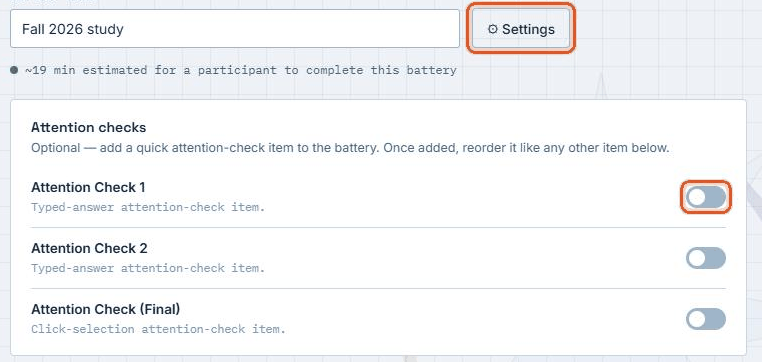
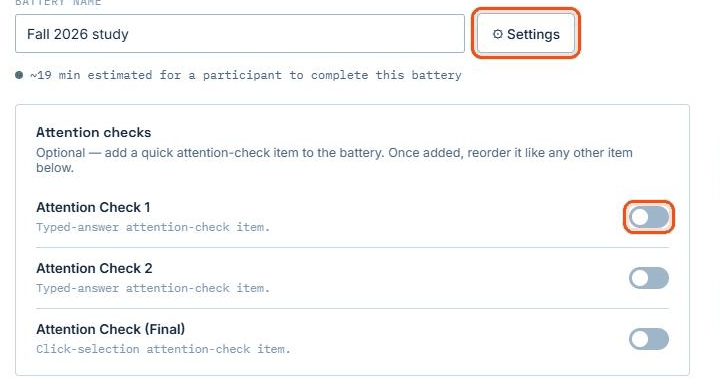
Guide screenshots retaken with the new look; Amma Bromley-Perry on Info; side-panel button width

diff --git a/index.html b/index.html
@@ -439,7 +439,7 @@
   body.guide-docked .battery-dock{right:auto; left:0; border-left:none; border-right:1px solid var(--line-strong); box-shadow:10px 0 28px rgba(20,40,63,0.12);}
   @media (min-width:1100px){ body.guide-docked.battery-docked{padding-left:280px;} }
   .guide-title-row{display:flex; align-items:center; justify-content:space-between; gap:16px; flex-wrap:wrap;}
-  .guide-dock-btn{width:auto; padding:8px 14px; font-size:13px;}
+  .guide-title-row .guide-dock-btn{width:auto; flex:0 0 auto; padding:8px 14px; font-size:13px;}
   .guide-dock{
     position:fixed; top:0; right:0; bottom:0; width:min(420px, 92vw);
     background:var(--bg); border-left:1px solid var(--line-strong);
@@ -2069,17 +2069,17 @@
       <p>To use one test in your study, add it to a battery on its own and generate a link. The orange outlines in the pictures show what to click.</p>
       <ol>
         <li>Click <b>Catalog</b> at the top of the page.
-          <figure class="guide-shot"><img src="guide/nav-catalog.png" alt="The buttons at the top of the page, with Catalog outlined" width="674" height="56" loading="lazy"></figure></li>
+          <figure class="guide-shot"><img src="guide/nav-catalog.png" alt="The buttons at the top of the page, with Catalog outlined" width="752" height="96" loading="lazy"></figure></li>
         <li>Find the test you want and click <b>Configure &amp; add</b> on its card.
-          <figure class="guide-shot narrow"><img src="guide/card-configure.png" alt="A test card in the catalog, with the Configure and add button outlined" width="379" height="604" loading="lazy"></figure></li>
+          <figure class="guide-shot narrow"><img src="guide/card-configure.png" alt="A test card in the catalog, with the Configure and add button outlined" width="348" height="639" loading="lazy"></figure></li>
         <li>Keep the recommended settings, or change them (for example, the number of items or the time per item). Then click <b>Add to battery</b>. This takes you to the <b>Battery</b> page.
-          <figure class="guide-shot"><img src="guide/settings-add.png" alt="The test settings, with the Add to battery button outlined" width="752" height="762" loading="lazy"></figure></li>
+          <figure class="guide-shot"><img src="guide/settings-add.png" alt="The test settings, with the Add to battery button outlined" width="752" height="669" loading="lazy"></figure></li>
         <li>Type a name for the battery in <b>Battery name</b>.
-          <figure class="guide-shot"><img src="guide/battery-name.png" alt="The Battery name box, outlined" width="586" height="100" loading="lazy"></figure></li>
+          <figure class="guide-shot"><img src="guide/battery-name.png" alt="The Battery name box, outlined" width="580" height="106" loading="lazy"></figure></li>
         <li>Click <b>Generate pilot link</b> to try the test yourself first. When you are ready to collect data, click <b>Generate final link</b>.
-          <figure class="guide-shot"><img src="guide/generate-buttons.png" alt="The buttons at the bottom of the Battery page, with Generate pilot link and Generate final link outlined" width="622" height="64" loading="lazy"></figure></li>
+          <figure class="guide-shot"><img src="guide/generate-buttons.png" alt="The buttons at the bottom of the Battery page, with Generate pilot link and Generate final link outlined" width="618" height="62" loading="lazy"></figure></li>
         <li>Click <b>copy</b> next to the link and send it to your participants, for example in Prolific, SONA, Qualtrics or an email.
-          <figure class="guide-shot"><img src="guide/copy-link.png" alt="The participant link, with the copy button outlined" width="544" height="120" loading="lazy"></figure></li>
+          <figure class="guide-shot"><img src="guide/copy-link.png" alt="The participant link, with the copy button outlined" width="544" height="123" loading="lazy"></figure></li>
         <li>Their results appear on your <b>Projects</b> page, where you can download the data.</li>
       </ol>
     </section>
@@ -2091,11 +2091,11 @@
         <li>Add your first test as above: <b>Catalog</b> &rarr; <b>Configure &amp; add</b> &rarr; <b>Add to battery</b>.</li>
         <li>To add the next test, click <b>+ Add another test</b> on the Battery page (or <b>Catalog</b> at the top) and repeat. Each test has its own settings.</li>
         <li>Set the order on the <b>Battery</b> page: drag a test up or down the list, or click the arrows above and below its number. Participants take the tests from top to bottom.
-          <figure class="guide-shot"><img src="guide/order.png" alt="The list of tests on the Battery page, with the order arrows around a test number outlined, and the Add another test button outlined" width="762" height="559" loading="lazy"></figure></li>
+          <figure class="guide-shot"><img src="guide/order.png" alt="The list of tests on the Battery page, with the order arrows around a test number outlined, and the Add another test button outlined" width="720" height="560" loading="lazy"></figure></li>
         <li>To put a test in a random position for each participant, switch on <b>Random position</b> on its card on the Battery page; its number ring turns dashed. Items within each test are shown in random order unless you turn off <b>Randomize item order</b> in the test's settings.
-          <figure class="guide-shot"><img src="guide/randomize-position.png" alt="A test card on the Battery page, with the Random position switch outlined" width="750" height="164" loading="lazy"></figure></li>
+          <figure class="guide-shot"><img src="guide/randomize-position.png" alt="A test card on the Battery page, with the Random position switch outlined" width="687" height="164" loading="lazy"></figure></li>
         <li>If you want, switch on one or more <b>Attention checks</b> on the Battery page. Use <b>&#9881; Settings</b> to change the message shown between tests.
-          <figure class="guide-shot"><img src="guide/attention-settings.png" alt="The Settings button and an attention check switch, outlined" width="762" height="362" loading="lazy"></figure></li>
+          <figure class="guide-shot"><img src="guide/attention-settings.png" alt="The Settings button and an attention check switch, outlined" width="720" height="388" loading="lazy"></figure></li>
         <li>Click <b>Save</b> to keep a draft. Then click <b>Generate pilot link</b> to try it, or <b>Generate final link</b> to collect data, and send the link to participants.</li>
       </ol>
     </section>
@@ -2106,15 +2106,15 @@
       <ol>
         <li>Click <b>Create test</b> at the top of the page.</li>
         <li>Choose how participants answer: <b>Multiple choice</b> (one correct box), <b>Multiple selections</b> (two correct boxes), <b>Same/different</b> (pairs of boxes) or <b>Fill in the blank</b> (a typed answer). Then click <b>Upload image</b> and choose one of your item images. You use it to mark where the answer choices are.
-          <figure class="guide-shot"><img src="guide/creator-type-upload.png" alt="The answer type menu and the Upload image button, outlined" width="730" height="58" loading="lazy"></figure></li>
+          <figure class="guide-shot"><img src="guide/creator-type-upload.png" alt="The answer type menu and the Upload image button, outlined" width="580" height="61" loading="lazy"></figure></li>
         <li>If the image is a scan or a photocopy, click <b>Clean up image&hellip;</b> to straighten, crop and tidy it. The same clean-up is applied to all your item images.
-          <figure class="guide-shot narrow"><img src="guide/creator-cleanup.png" alt="The Clean up image button, outlined" width="374" height="58" loading="lazy"></figure></li>
+          <figure class="guide-shot narrow"><img src="guide/creator-cleanup.png" alt="The Clean up image button, outlined" width="170" height="55" loading="lazy"></figure></li>
         <li>Draw a box over each answer choice: drag across empty space to draw a box, drag a box to move it, and drag a corner to resize it. Boxes are lettered A, B, C&hellip; in the order you draw them. Then click <b>Upload items &amp; tag</b> and choose all of your item images at once.
-          <figure class="guide-shot"><img src="guide/creator-boxes.png" alt="An item with a box drawn over each of the four answer choices, and the Upload items and tag button outlined" width="762" height="362" loading="lazy"></figure></li>
+          <figure class="guide-shot"><img src="guide/creator-boxes.png" alt="An item with a box drawn over each of the four answer choices, and the Upload items and tag button outlined" width="700" height="331" loading="lazy"></figure></li>
         <li>For each item, click the correct box (two boxes for multiple selections, or type the answer for fill in the blank). It turns green. Then click <b>Next item</b>. If an item's choices sit slightly differently, drag its boxes into place. On the last item the button says <b>Finish</b>.
-          <figure class="guide-shot"><img src="guide/creator-tag.png" alt="Tagging an item: box B is marked correct in green, and the Next item button is outlined" width="772" height="380" loading="lazy"></figure></li>
+          <figure class="guide-shot"><img src="guide/creator-tag.png" alt="Tagging an item: box B is marked correct in green, and the Next item button is outlined" width="712" height="372" loading="lazy"></figure></li>
         <li>Give the test a <b>Test name</b> and a short <b>Description</b>, check the list of items, and click <b>Save test</b>.
-          <figure class="guide-shot"><img src="guide/creator-save.png" alt="The review screen, with the Test name box and the Save test button outlined" width="762" height="488" loading="lazy"></figure></li>
+          <figure class="guide-shot"><img src="guide/creator-save.png" alt="The review screen, with the Test name box and the Save test button outlined" width="702" height="500" loading="lazy"></figure></li>
         <li>Your test now appears in the <b>Catalog</b> with an <b>Only you</b> badge. Add it to a battery like any other test. Only you can see it unless an administrator adds it to the shared catalog.</li>
       </ol>
     </section>
@@ -2143,7 +2143,7 @@
       </div>
       <div class="team-card">
         <div class="team-head"><span class="team-badge" style="background:#4E2A84; color:#FFFFFF;">NU</span><h2>Northwestern University</h2></div>
-        <ul class="team-list"><li class="team-pi"><b>David Uttal</b><span>Kenneth F. Burgess Professor of Psychology and Education</span><ul class="team-sub"><li><b>Qingzhou Shi</b><span>Postdoctoral Researcher</span></li><li><b>Danielle Rothschild Doyle</b><span>PhD Student</span></li><li><b>Lauren Smith</b><span>PhD Student</span></li></ul></li></ul>
+        <ul class="team-list"><li class="team-pi"><b>David Uttal</b><span>Kenneth F. Burgess Professor of Psychology and Education</span><ul class="team-sub"><li><b>Qingzhou Shi</b><span>Postdoctoral Researcher</span></li><li><b>Danielle Rothschild Doyle</b><span>PhD Student</span></li><li><b>Lauren Smith</b><span>PhD Student</span></li><li><b>Amma Bromley-Perry</b><span>Research Coordinator</span></li></ul></li></ul>
       </div>
       <div class="team-card">
         <div class="team-head"><span class="team-badge" style="background:#9D2235; color:#FFFFFF;">TU</span><h2>Temple University</h2></div>
